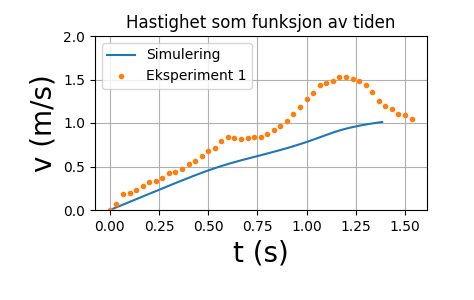
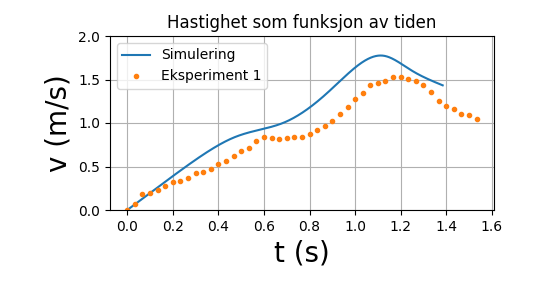
Fixed plot

diff --git a/velocity_time.py b/velocity_time.py
@@ -14,37 +14,6 @@ Calculate the velocity as a function of time in each of the 1400 steps
 """
 
 
-def calculate():
-    """
-    Calculate velocity at time t, and return it as a list. 
-
-    Returns: [v_0, v_1, ..., v_n] where n=1400
-
-    v_i = velocity at time t_i
-    """
-
-    # Define some constants
-    delta_x = 0.001  # Horizontal distance between each step
-
-    # Retrieve time list
-    time = x_position.calculate_time()
-
-    v = []
-    for i in range(len(time)):
-        if i == 0:
-            # Avoid division by zero for first step
-            v.append(0)
-            continue
-
-        current_time = time[i]
-        current_position = delta_x * i
-
-        value = current_position / current_time
-        v.append(value)
-
-    return v
-
-
 def get_experiment_data():
     """
     Return data captured during experiment
@@ -163,7 +132,7 @@ def main():
     """Method to execute when script is invoked"""
 
     # Retrieve velocity as function of time
-    simulation_velocity = calculate()
+    simulation_velocity = velocity.calculate()
 
     # Retrive list of times
     simulation_time = x_position.calculate_time()
